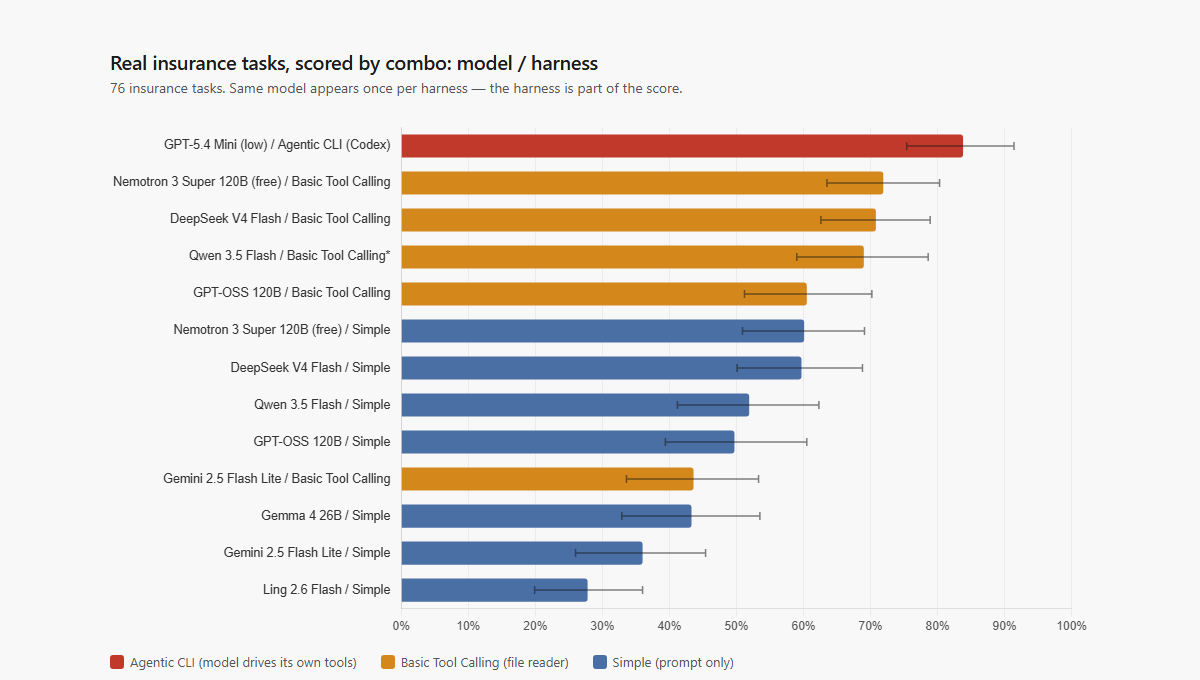
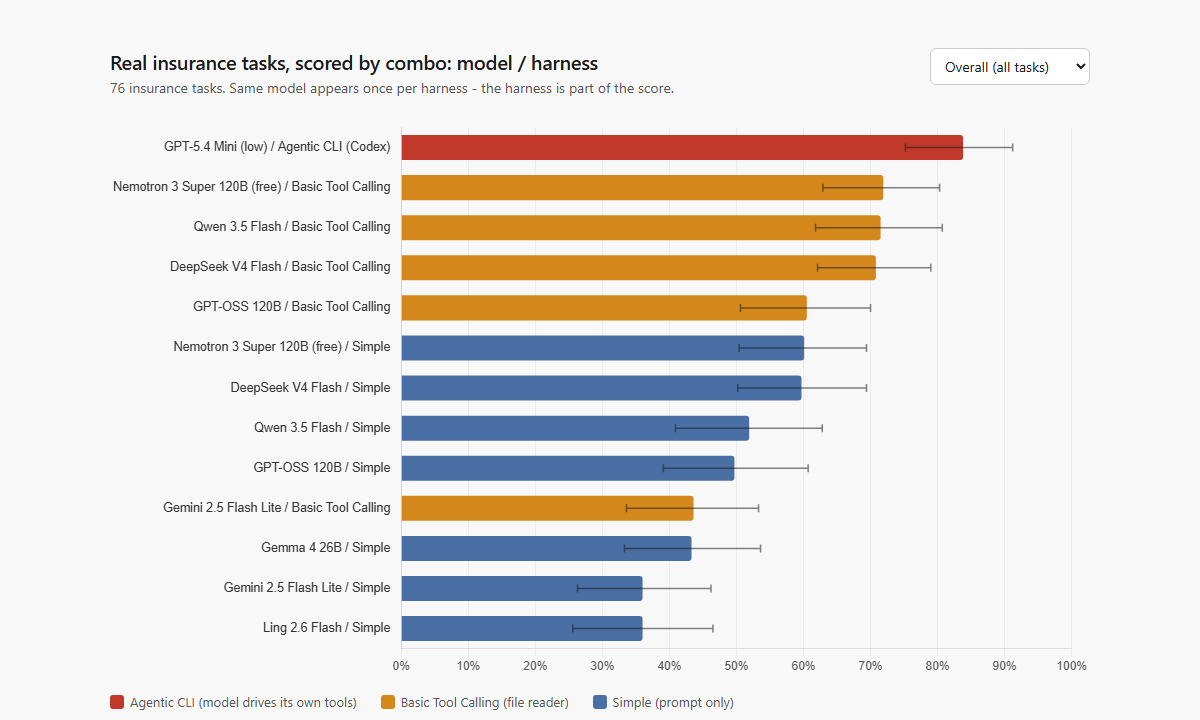
Blog chart: sub-benchmark dropdown + complete overnight data
Overall / Underwriting / Actuarial / Claims & Coverage views (deep-
linkable via #hash), all 10 overnight_v2 lanes now complete, 623
credit-cap 403 rows reclassified as infra errors and excluded, and a
coverage gate so a partially-failed cell can never be quoted.

diff --git a/public/charts/insurebench-preliminary.html b/public/charts/insurebench-preliminary.html
@@ -6,23 +6,30 @@
 <style>
 body { margin: 0; padding: 48px 40px; background: #f8f8f8; font-family: 'Segoe UI', -apple-system, system-ui, sans-serif; }
 .wrap { max-width: 980px; margin: 0 auto; }
+.head { display: flex; justify-content: space-between; align-items: flex-start; gap: 16px; flex-wrap: wrap; }
 .panel-title { font-size: 20px; font-weight: 600; color: #1a1a1a; margin-bottom: 3px; letter-spacing: -0.3px; }
 .panel-sub { font-size: 14px; color: #555; margin-bottom: 20px; }
-.chart-wrap { position: relative; width: 100%; height: 520px; }
+select { font: inherit; font-size: 14px; padding: 7px 10px; border: 1px solid #ccc; border-radius: 6px; background: #fff; color: #1a1a1a; }
+.chart-wrap { position: relative; width: 100%; height: 560px; }
 .legend { display: flex; flex-wrap: wrap; gap: 24px; font-size: 13px; color: #555; margin-top: 16px; }
 .legend span { display: flex; align-items: center; gap: 6px; }
 .swatch { width: 14px; height: 14px; border-radius: 3px; }
 .footnote { font-size: 12px; color: #888; margin-top: 12px; line-height: 1.5; }
 @media (max-width: 768px) {
   body { padding: 20px 8px; }
-  .chart-wrap { height: 560px; }
+  .chart-wrap { height: 580px; }
 }
 </style>
 </head>
 <body>
 <div class="wrap">
-<div class="panel-title">Real insurance tasks, scored by combo: model / harness</div>
-<div class="panel-sub">76 insurance tasks. Same model appears once per harness &mdash; the harness is part of the score.</div>
+<div class="head">
+  <div>
+    <div class="panel-title">Real insurance tasks, scored by combo: model / harness</div>
+    <div class="panel-sub" id="sub"></div>
+  </div>
+  <select id="view" onchange="render()" aria-label="Sub-benchmark"></select>
+</div>
 <div class="chart-wrap"><canvas id="chart"></canvas></div>
 <div class="legend">
 <span><span class="swatch" style="background:#C0392B;"></span>Agentic CLI (model drives its own tools)</span>
@@ -32,34 +39,29 @@ body { margin: 0; padding: 48px 40px; background: #f8f8f8; font-family: 'Segoe U
 <div class="footnote">
 Preliminary, June 2026. Objective-keyed scoring only (code-checked answers; no LLM judges).
 Whiskers are 95% bootstrap confidence intervals over per-task means (2,000 resamples):
-repeat runs of the same task are correlated, so the interval resamples the 76 tasks, not the
-raw answers &mdash; the honest, wider read. API combos: 3 runs &times; 76 tasks; Agentic CLI:
-single run. *Qwen / Basic Tool Calling was still mid-run at capture. Infrastructure errors are
+repeat runs of the same task are correlated, so the interval resamples the tasks, not the
+raw answers &mdash; the honest, wider read. API combos: 3 runs per task; Agentic CLI: single
+run. Sub-benchmark views slice the same runs by insurance function &mdash; fewer tasks per
+slice means wider intervals; that is the point of showing them. Infrastructure errors are
 excluded, never counted as wrong answers. Task bank is pre-freeze ("trial-grade"): the
 expert-verified v0.1 release is in progress and these numbers will be re-run against it.
 </div>
 </div>
 <script src="https://cdnjs.cloudflare.com/ajax/libs/Chart.js/4.4.1/chart.umd.js"></script>
 <script>
-const steel = '#4A6FA5';   // Simple
-const amber = '#D4881C';   // Basic Tool Calling
-const red   = '#C0392B';   // Agentic CLI
-// [label, mean, ci_lo, ci_hi, color] - 95% bootstrap over per-task means
-const combos = [
-  ['GPT-5.4 Mini (low) / Agentic CLI (Codex)',          83.8, 75.4, 91.4, red],
-  ['Nemotron 3 Super 120B (free) / Basic Tool Calling', 71.9, 63.5, 80.3, amber],
-  ['DeepSeek V4 Flash / Basic Tool Calling',            70.8, 62.6, 78.9, amber],
-  ['Qwen 3.5 Flash / Basic Tool Calling*',              69.0, 59.0, 78.6, amber],
-  ['GPT-OSS 120B / Basic Tool Calling',                 60.5, 51.2, 70.2, amber],
-  ['Nemotron 3 Super 120B (free) / Simple',             60.1, 50.9, 69.1, steel],
-  ['DeepSeek V4 Flash / Simple',                        59.7, 50.1, 68.8, steel],
-  ['Qwen 3.5 Flash / Simple',                           51.9, 41.2, 62.3, steel],
-  ['GPT-OSS 120B / Simple',                             49.7, 39.4, 60.5, steel],
-  ['Gemini 2.5 Flash Lite / Basic Tool Calling',        43.6, 33.6, 53.3, amber],
-  ['Gemma 4 26B / Simple',                              43.3, 32.9, 53.5, steel],
-  ['Gemini 2.5 Flash Lite / Simple',                    36.0, 26.0, 45.4, steel],
-  ['Ling 2.6 Flash / Simple',                           27.8, 19.9, 36.0, steel],
-];
+const DATA = {"Overall": [{"label": "GPT-5.4 Mini (low) / Agentic CLI (Codex)", "mean": 83.8, "lo": 75.2, "hi": 91.2, "color": "#C0392B", "items": 76}, {"label": "Nemotron 3 Super 120B (free) / Basic Tool Calling", "mean": 71.9, "lo": 62.9, "hi": 80.3, "color": "#D4881C", "items": 76}, {"label": "Qwen 3.5 Flash / Basic Tool Calling", "mean": 71.5, "lo": 61.8, "hi": 80.7, "color": "#D4881C", "items": 76}, {"label": "DeepSeek V4 Flash / Basic Tool Calling", "mean": 70.8, "lo": 62.1, "hi": 79.0, "color": "#D4881C", "items": 76}, {"label": "GPT-OSS 120B / Basic Tool Calling", "mean": 60.5, "lo": 50.6, "hi": 70.0, "color": "#D4881C", "items": 76}, {"label": "Nemotron 3 Super 120B (free) / Simple", "mean": 60.1, "lo": 50.4, "hi": 69.4, "color": "#4A6FA5", "items": 76}, {"label": "DeepSeek V4 Flash / Simple", "mean": 59.7, "lo": 50.2, "hi": 69.4, "color": "#4A6FA5", "items": 76}, {"label": "Qwen 3.5 Flash / Simple", "mean": 51.9, "lo": 40.9, "hi": 62.8, "color": "#4A6FA5", "items": 76}, {"label": "GPT-OSS 120B / Simple", "mean": 49.7, "lo": 39.1, "hi": 60.7, "color": "#4A6FA5", "items": 76}, {"label": "Gemini 2.5 Flash Lite / Basic Tool Calling", "mean": 43.6, "lo": 33.6, "hi": 53.3, "color": "#D4881C", "items": 76}, {"label": "Gemma 4 26B / Simple", "mean": 43.3, "lo": 33.3, "hi": 53.6, "color": "#4A6FA5", "items": 76}, {"label": "Gemini 2.5 Flash Lite / Simple", "mean": 36.0, "lo": 26.3, "hi": 46.2, "color": "#4A6FA5", "items": 76}, {"label": "Ling 2.6 Flash / Simple", "mean": 36.0, "lo": 25.6, "hi": 46.5, "color": "#4A6FA5", "items": 73}], "Underwriting": [{"label": "GPT-5.4 Mini (low) / Agentic CLI (Codex)", "mean": 87.0, "lo": 77.4, "hi": 95.6, "color": "#C0392B", "items": 45}, {"label": "Nemotron 3 Super 120B (free) / Basic Tool Calling", "mean": 63.0, "lo": 51.2, "hi": 74.2, "color": "#D4881C", "items": 45}, {"label": "DeepSeek V4 Flash / Basic Tool Calling", "mean": 62.6, "lo": 51.2, "hi": 73.6, "color": "#D4881C", "items": 45}, {"label": "Qwen 3.5 Flash / Basic Tool Calling", "mean": 58.5, "lo": 45.6, "hi": 71.9, "color": "#D4881C", "items": 45}, {"label": "GPT-OSS 120B / Basic Tool Calling", "mean": 46.9, "lo": 34.8, "hi": 60.0, "color": "#D4881C", "items": 45}, {"label": "Nemotron 3 Super 120B (free) / Simple", "mean": 46.3, "lo": 34.4, "hi": 58.1, "color": "#4A6FA5", "items": 45}, {"label": "DeepSeek V4 Flash / Simple", "mean": 45.7, "lo": 34.1, "hi": 56.8, "color": "#4A6FA5", "items": 45}, {"label": "Gemini 2.5 Flash Lite / Basic Tool Calling", "mean": 42.5, "lo": 30.4, "hi": 54.8, "color": "#D4881C", "items": 45}, {"label": "GPT-OSS 120B / Simple", "mean": 31.0, "lo": 18.5, "hi": 44.3, "color": "#4A6FA5", "items": 45}, {"label": "Qwen 3.5 Flash / Simple", "mean": 30.2, "lo": 18.8, "hi": 43.0, "color": "#4A6FA5", "items": 45}, {"label": "Gemini 2.5 Flash Lite / Simple", "mean": 29.6, "lo": 18.4, "hi": 41.9, "color": "#4A6FA5", "items": 45}, {"label": "Gemma 4 26B / Simple", "mean": 29.4, "lo": 18.5, "hi": 41.1, "color": "#4A6FA5", "items": 45}, {"label": "Ling 2.6 Flash / Simple", "mean": 27.3, "lo": 15.5, "hi": 39.8, "color": "#4A6FA5", "items": 44}], "Actuarial": [{"label": "Qwen 3.5 Flash / Basic Tool Calling", "mean": 89.5, "lo": 76.3, "hi": 100.0, "color": "#D4881C", "items": 19}, {"label": "Nemotron 3 Super 120B (free) / Basic Tool Calling", "mean": 84.2, "lo": 68.4, "hi": 97.4, "color": "#D4881C", "items": 19}, {"label": "GPT-OSS 120B / Simple", "mean": 83.3, "lo": 68.4, "hi": 95.6, "color": "#4A6FA5", "items": 19}, {"label": "Qwen 3.5 Flash / Simple", "mean": 83.3, "lo": 66.7, "hi": 96.5, "color": "#4A6FA5", "items": 19}, {"label": "DeepSeek V4 Flash / Basic Tool Calling", "mean": 82.5, "lo": 67.5, "hi": 93.9, "color": "#D4881C", "items": 19}, {"label": "DeepSeek V4 Flash / Simple", "mean": 81.6, "lo": 63.2, "hi": 96.5, "color": "#4A6FA5", "items": 19}, {"label": "GPT-5.4 Mini (low) / Agentic CLI (Codex)", "mean": 81.6, "lo": 63.2, "hi": 97.4, "color": "#C0392B", "items": 19}, {"label": "Nemotron 3 Super 120B (free) / Simple", "mean": 80.7, "lo": 63.2, "hi": 94.7, "color": "#4A6FA5", "items": 19}, {"label": "GPT-OSS 120B / Basic Tool Calling", "mean": 80.7, "lo": 65.8, "hi": 93.0, "color": "#D4881C", "items": 19}, {"label": "Gemma 4 26B / Simple", "mean": 57.0, "lo": 36.0, "hi": 77.2, "color": "#4A6FA5", "items": 19}, {"label": "Ling 2.6 Flash / Simple", "mean": 40.4, "lo": 21.0, "hi": 62.7, "color": "#4A6FA5", "items": 18}, {"label": "Gemini 2.5 Flash Lite / Simple", "mean": 35.1, "lo": 16.7, "hi": 55.3, "color": "#4A6FA5", "items": 19}, {"label": "Gemini 2.5 Flash Lite / Basic Tool Calling", "mean": 35.1, "lo": 16.7, "hi": 55.3, "color": "#D4881C", "items": 19}], "Claims & Coverage": [{"label": "Qwen 3.5 Flash / Basic Tool Calling", "mean": 91.7, "lo": 75.0, "hi": 100.0, "color": "#D4881C", "items": 12}, {"label": "Nemotron 3 Super 120B (free) / Basic Tool Calling", "mean": 86.1, "lo": 66.7, "hi": 97.2, "color": "#D4881C", "items": 12}, {"label": "Qwen 3.5 Flash / Simple", "mean": 83.3, "lo": 58.3, "hi": 100.0, "color": "#4A6FA5", "items": 12}, {"label": "DeepSeek V4 Flash / Basic Tool Calling", "mean": 83.3, "lo": 66.7, "hi": 97.2, "color": "#D4881C", "items": 12}, {"label": "Nemotron 3 Super 120B (free) / Simple", "mean": 79.2, "lo": 58.3, "hi": 95.8, "color": "#4A6FA5", "items": 12}, {"label": "GPT-OSS 120B / Basic Tool Calling", "mean": 79.2, "lo": 56.9, "hi": 97.2, "color": "#D4881C", "items": 12}, {"label": "DeepSeek V4 Flash / Simple", "mean": 77.8, "lo": 55.6, "hi": 97.2, "color": "#4A6FA5", "items": 12}, {"label": "GPT-5.4 Mini (low) / Agentic CLI (Codex)", "mean": 75.0, "lo": 50.0, "hi": 100.0, "color": "#C0392B", "items": 12}, {"label": "Gemma 4 26B / Simple", "mean": 73.6, "lo": 50.0, "hi": 94.4, "color": "#4A6FA5", "items": 12}, {"label": "GPT-OSS 120B / Simple", "mean": 66.7, "lo": 44.4, "hi": 86.1, "color": "#4A6FA5", "items": 12}, {"label": "Ling 2.6 Flash / Simple", "mean": 63.6, "lo": 36.4, "hi": 90.9, "color": "#4A6FA5", "items": 11}, {"label": "Gemini 2.5 Flash Lite / Simple", "mean": 61.1, "lo": 33.3, "hi": 86.1, "color": "#4A6FA5", "items": 12}, {"label": "Gemini 2.5 Flash Lite / Basic Tool Calling", "mean": 61.1, "lo": 33.3, "hi": 86.1, "color": "#D4881C", "items": 12}]};
+const sel = document.getElementById('view');
+Object.keys(DATA).forEach(v => {
+  const o = document.createElement('option');
+  o.value = v; o.textContent = v === 'Overall' ? 'Overall (all tasks)' : v;
+  sel.appendChild(o);
+});
+// deep-linkable sub-benchmarks: #Underwriting, #Actuarial, ...
+const hashView = decodeURIComponent((location.hash || '').slice(1));
+if (DATA[hashView]) sel.value = hashView;
+sel.addEventListener('change', () => {
+  history.replaceState(null, '', '#' + encodeURIComponent(sel.value));
+});
 const ciWhiskers = {
   id: 'ciWhiskers',
   afterDatasetsDraw(chart) {
@@ -83,37 +85,51 @@ const ciWhiskers = {
     });
   }
 };
-new Chart(document.getElementById('chart'), {
-  type: 'bar',
-  data: {
-    labels: combos.map(c => c[0]),
-    datasets: [{
-      data: combos.map(c => c[1]),
-      ciLo: combos.map(c => c[2]),
-      ciHi: combos.map(c => c[3]),
-      backgroundColor: combos.map(c => c[4]),
-      borderRadius: 3,
-      barPercentage: 0.78,
-    }],
-  },
-  options: {
-    indexAxis: 'y',
-    responsive: true,
-    maintainAspectRatio: false,
-    plugins: { legend: { display: false }, tooltip: {
-      callbacks: { label: c =>
-        `${c.parsed.x}%  (95% CI ${c.dataset.ciLo[c.dataIndex]}–` +
-        `${c.dataset.ciHi[c.dataIndex]})` } } },
-    scales: {
-      x: { min: 0, max: 100, grid: { color: 'rgba(0,0,0,0.05)' },
-           ticks: { color: '#555', callback: v => v + '%' } },
-      y: { grid: { display: false },
-           ticks: { color: '#333', autoSkip: false,
-                    font: { size: window.innerWidth < 500 ? 10 : 12.5 } } },
+let chart = null;
+function render() {
+  const view = sel.value;
+  const combos = DATA[view];
+  const nItems = combos[0].items;
+  document.getElementById('sub').textContent =
+    (view === 'Overall'
+      ? nItems + ' insurance tasks. Same model appears once per harness - the harness is part of the score.'
+      : nItems + ' ' + view.toLowerCase() + ' tasks (subset of the same runs). Fewer tasks = wider intervals.');
+  const cfg = {
+    type: 'bar',
+    data: {
+      labels: combos.map(c => c.label),
+      datasets: [{
+        data: combos.map(c => c.mean),
+        ciLo: combos.map(c => c.lo),
+        ciHi: combos.map(c => c.hi),
+        backgroundColor: combos.map(c => c.color),
+        borderRadius: 3,
+        barPercentage: 0.78,
+      }],
     },
-  },
-  plugins: [ciWhiskers],
-});
+    options: {
+      indexAxis: 'y',
+      responsive: true,
+      maintainAspectRatio: false,
+      animation: { duration: 300 },
+      plugins: { legend: { display: false }, tooltip: {
+        callbacks: { label: c =>
+          c.parsed.x + '%  (95% CI ' + c.dataset.ciLo[c.dataIndex] + '-' +
+          c.dataset.ciHi[c.dataIndex] + ')' } } },
+      scales: {
+        x: { min: 0, max: 100, grid: { color: 'rgba(0,0,0,0.05)' },
+             ticks: { color: '#555', callback: v => v + '%' } },
+        y: { grid: { display: false },
+             ticks: { color: '#333', autoSkip: false,
+                      font: { size: window.innerWidth < 500 ? 10 : 12.5 } } },
+      },
+    },
+    plugins: [ciWhiskers],
+  };
+  if (chart) { chart.destroy(); }
+  chart = new Chart(document.getElementById('chart'), cfg);
+}
+render();
 </script>
 </body>
 </html>